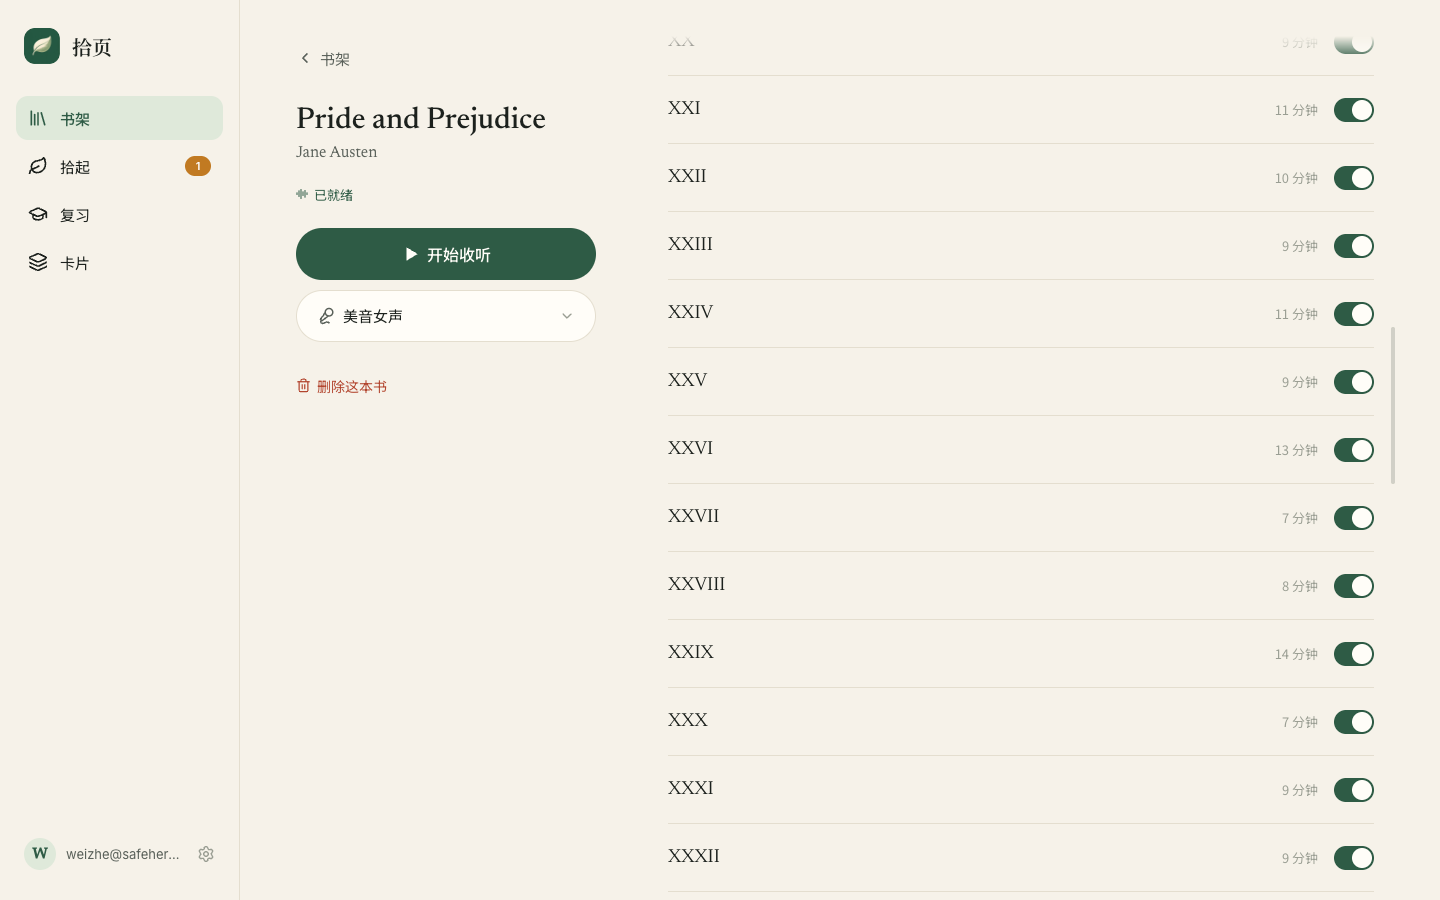
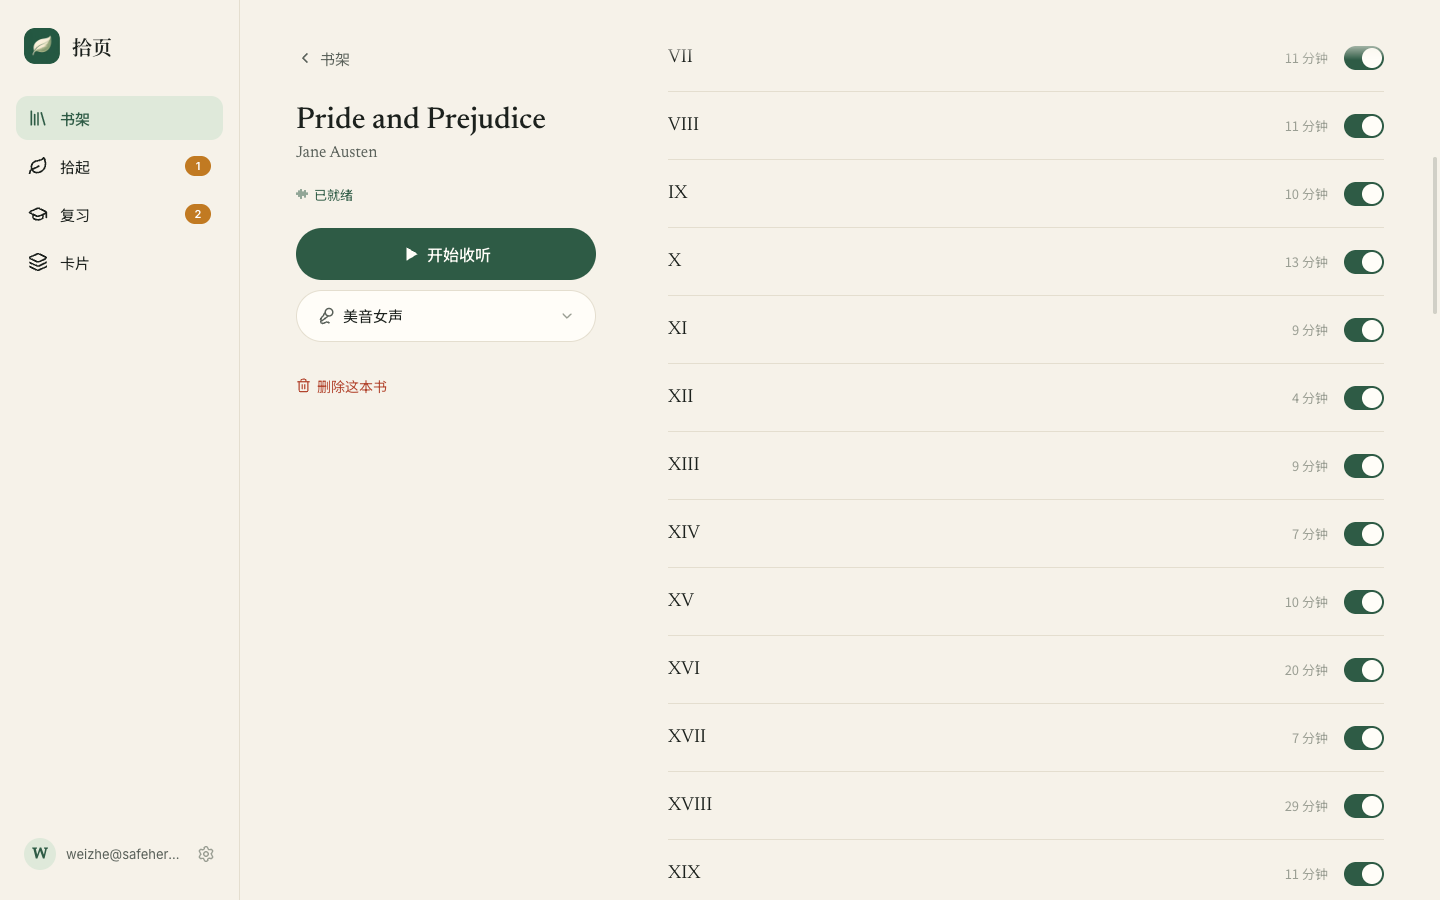
fix: the detail's Chapter scrollbar sits at the window's right edge
The Chapter list's scroll area now reaches the window edge, with the rows
keeping the content's right side; the page keeps no scrollbar gutter there.

diff --git a/web/src/styles.css b/web/src/styles.css
@@ -466,13 +466,19 @@ html:has(.shell) {
  */
 .shell-main:has(> .book-layout) {
   padding: 0;
+  container-type: inline-size;
+}
+
+/* The Chapter list's scrollbar is the window's right edge, so no page gutter is kept beside it. */
+html:has(.book-layout) {
+  scrollbar-gutter: auto;
 }
 
 .book-layout {
+  /* The content's sides: 56 px, or more to centre it at 1200 px in a wide window. */
+  --book-side: max(56px, calc((100cqw - 1200px) / 2));
   height: 100vh;
-  max-width: calc(1200px + 2 * 56px);
-  margin: 0 auto;
-  padding: 36px 56px 0;
+  padding: 36px 0 0 var(--book-side);
   display: grid;
   grid-template-columns: 300px minmax(0, 1fr);
   grid-template-rows: minmax(0, 1fr);
@@ -664,9 +670,9 @@ html:has(.shell) {
   min-height: 0;
   overflow-y: auto;
   list-style: none;
-  /* The scrollbar sits 14 px right of the rows' switches; the rows keep their width. */
-  margin: 0 -24px 0 0;
-  padding: 44px calc(24px - var(--scrollbar-size)) 64px 0;
+  /* It reaches the window's right edge, where its scrollbar is; the rows keep the content's right side. */
+  margin: 0;
+  padding: 44px calc(var(--book-side) - var(--scrollbar-size)) 64px 0;
   scrollbar-gutter: stable;
   /* Rows fade out under the top edge rather than being cut there. */
   -webkit-mask-image: linear-gradient(to bottom, transparent, #000 24px);
